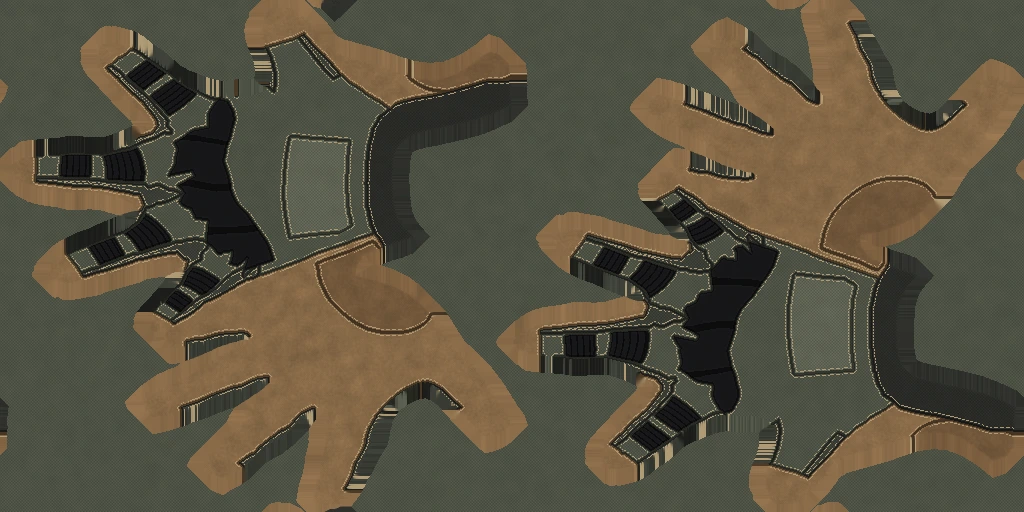
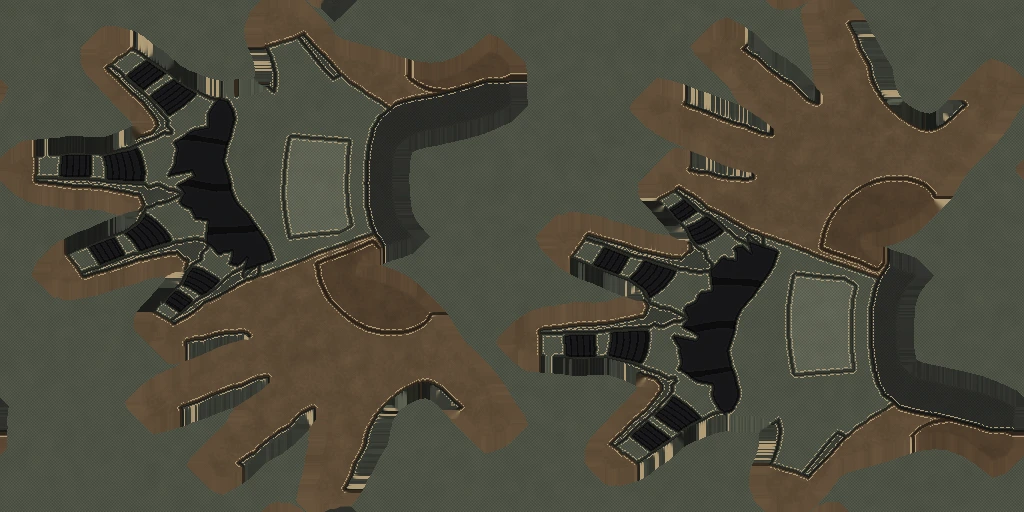
Gloves: dark brown leather on the palm and fingertips instead of tan
From the eye you see mostly the glove's leather, and the tan (0.52, 0.405, 0.275) read as bare skin
in sunlight. The leather is now a dark brown (0.36, 0.29, 0.21) and the heel patch darker by the
same factor; the fabric, pads, seams and layout stay. Remade with
blender -b --disable-autoexec -P tools/gloves.py -- web/public/models (only glove_color changes).

Claude-Session: https://claude.ai/code/session_01SZHxLjDaxhYymevXqdHj9X

diff --git a/tools/gloves.py b/tools/gloves.py
@@ -284,8 +284,8 @@ def paint(out_dir, preview):
         FABRIC: ((0.300, 0.315, 0.265), 0.93, 0.00),
         GUSSET: ((0.225, 0.235, 0.205), 0.93, -0.08),
         PANEL: ((0.365, 0.380, 0.320), 0.90, 0.10),
-        LEATHER: ((0.520, 0.405, 0.275), 0.60, 0.15),
-        PATCH: ((0.440, 0.335, 0.225), 0.66, 0.50),
+        LEATHER: ((0.360, 0.290, 0.210), 0.60, 0.15),  # a dark brown: a lighter tan read as bare skin in the sun
+        PATCH: ((0.305, 0.240, 0.172), 0.66, 0.50),
         PAD: ((0.085, 0.087, 0.092), 0.42, 1.00),
         STRAP: ((0.160, 0.165, 0.150), 0.84, 0.60),
     }
